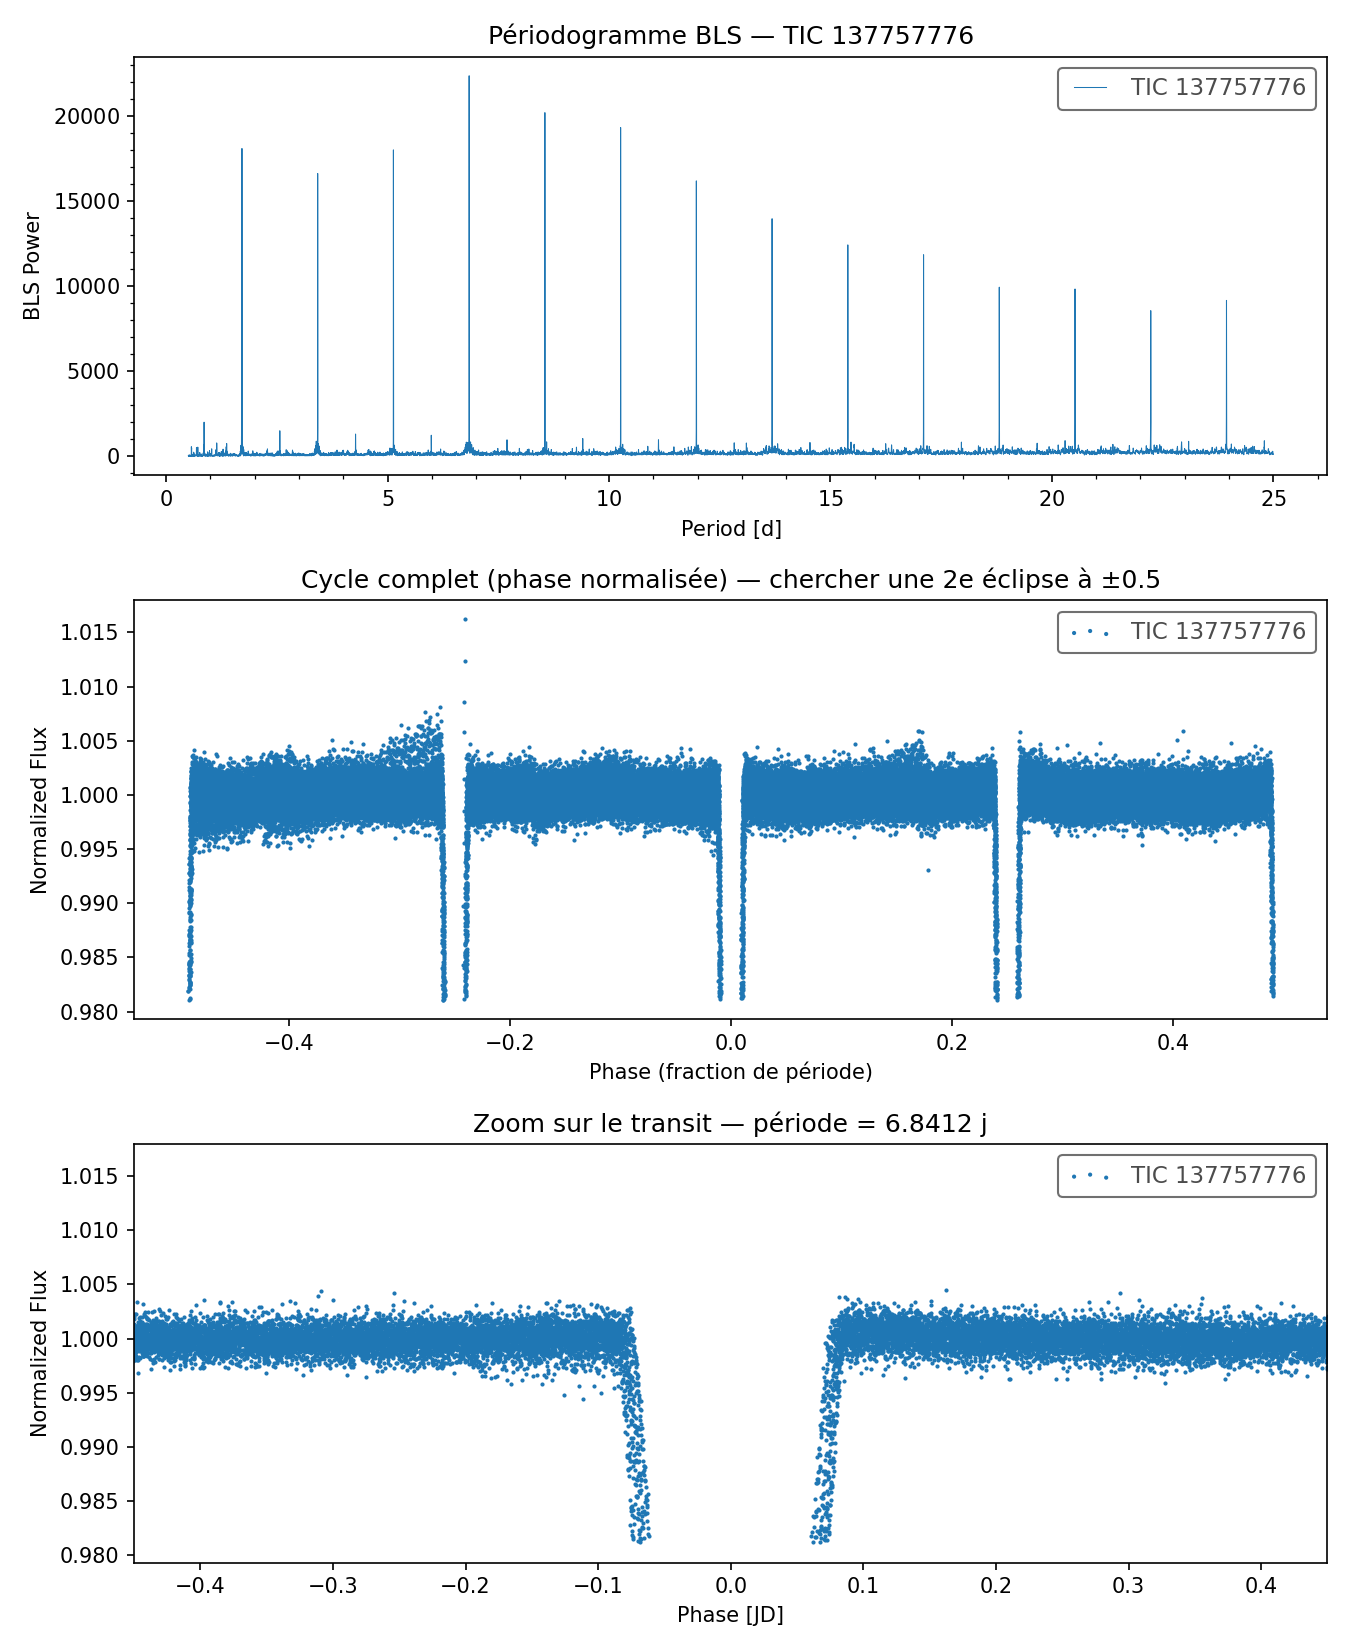
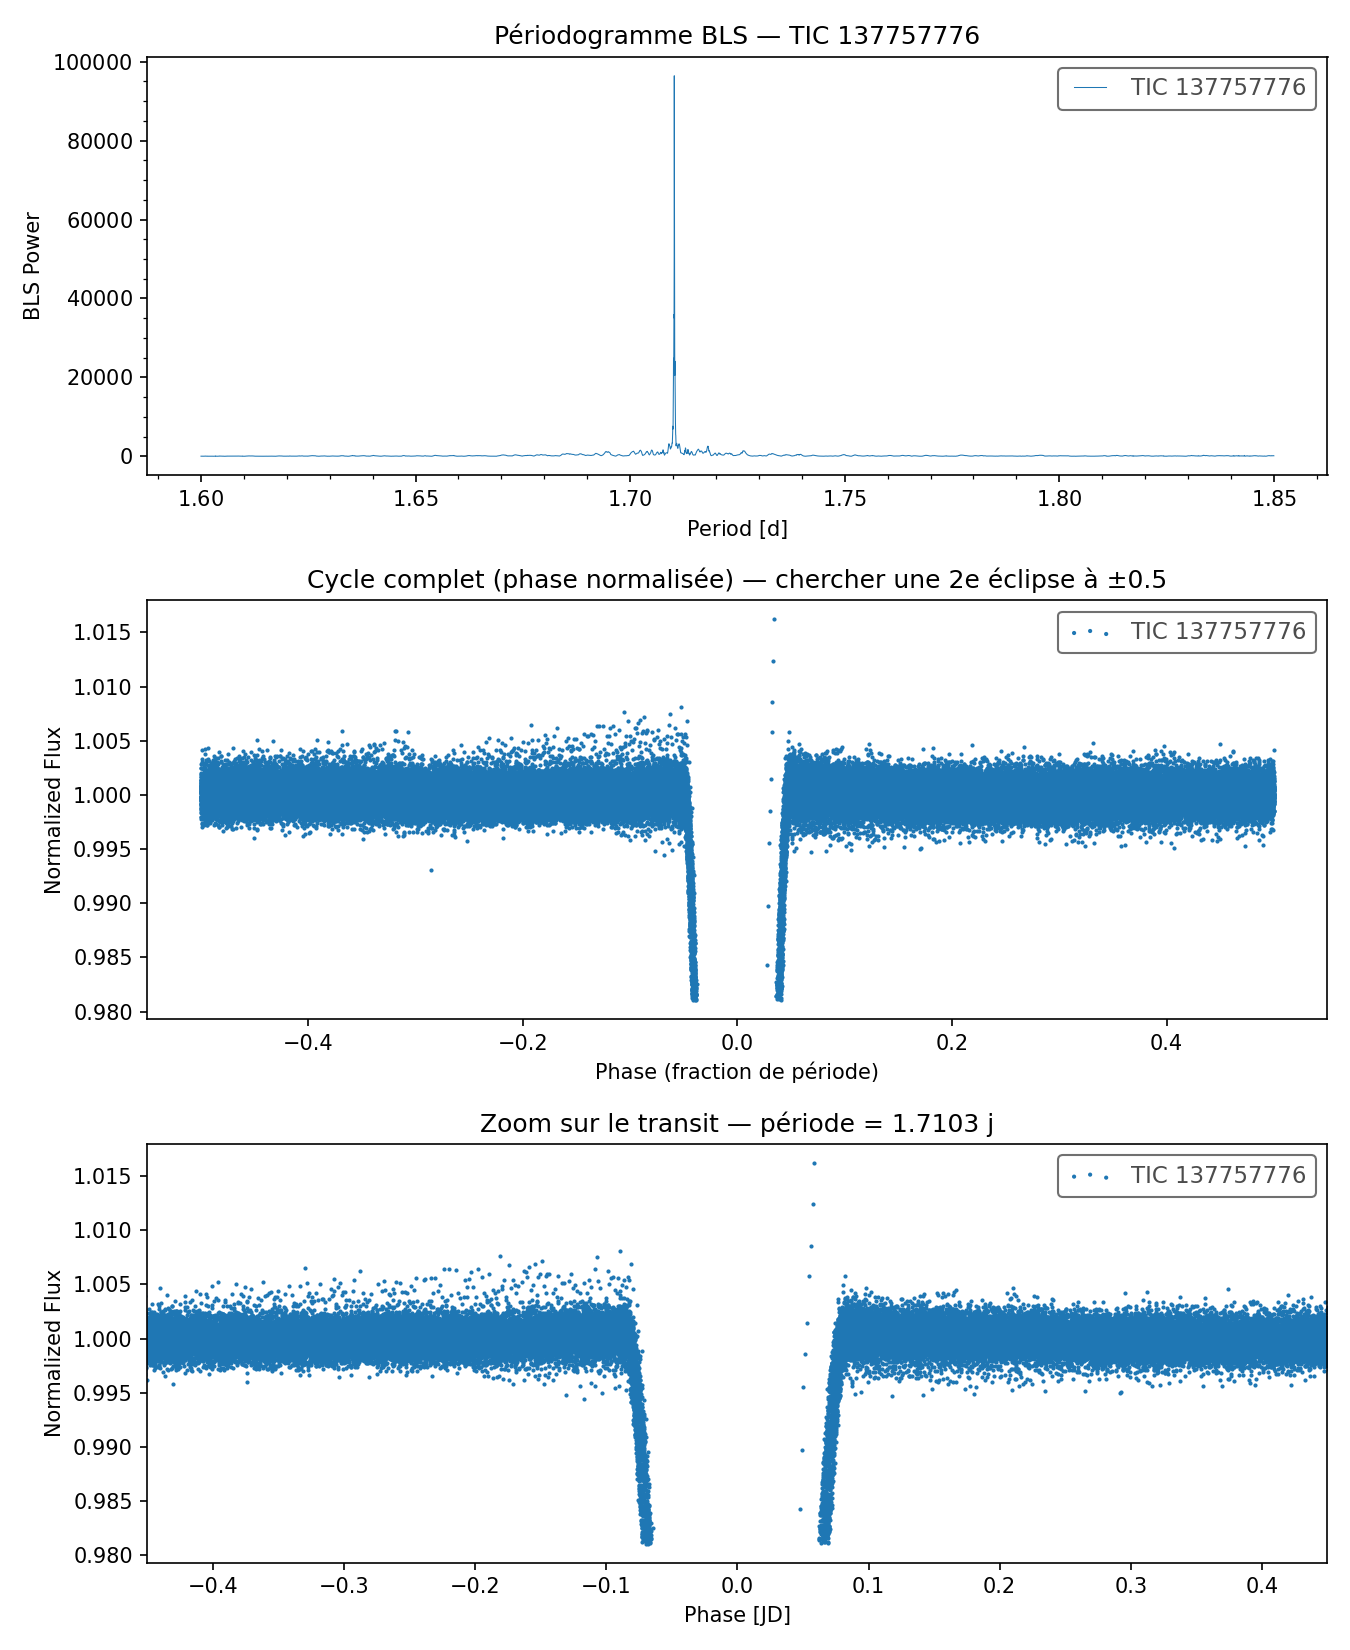
Mise a jour

diff --git a/index.html b/index.html
@@ -2187,6 +2187,188 @@
             <div class="meta-row"><span>période <b> j</b></span><span>snr <b>57.8</b></span></div>
           </div>
         </div>
+
+        <div class="card">
+          <div class="shot">
+            <img src="assets/crop/tic-259589049.png" alt="Courbe de lumière de TIC 259589049">
+            <span class="stamp marginal">Non classée</span>
+          </div>
+          <div class="body">
+            <p class="tic">TIC 259589049</p>
+            <p class="coords">RA 72.433 · DEC -53.002 · Tmag 10.49</p>
+            <p class="verdict-text">Corrigé après examen individuel -- le premier passage sur la grille compressée avait sous-estimé le signal, jugé à tort à peine distinguable. Périodogramme propre avec harmoniques régulières (1:2:3:4:5 sur 5/10/15/20/25j), creux net dans le cycle complet (~1.2%). Rayon implicite 1.18 R_jup -- taille sans ambiguïté, dans la gamme des planètes confirmées. Absente de la table TOI et d'aucune publication trouvée.</p>
+            <div class="meta-row"><span>période <b>4.9839 j</b></span><span>snr <b>—</b></span></div>
+          </div>
+        </div>
+
+        <div class="card">
+          <div class="shot">
+            <img src="assets/crop/tic-183655984.png" alt="Courbe de lumière de TIC 183655984">
+            <span class="stamp reject">Signal non fiable</span>
+          </div>
+          <div class="body">
+            <p class="tic">TIC 183655984</p>
+            <p class="coords">RA 196.025 · DEC -8.075 · Tmag 9.90</p>
+            <p class="verdict-text">Périodogramme chaotique sans pic isolé (bruit de fond montant sur toute la plage), repliement montrant des points épars sous la bande principale plutôt qu'un creux cohérent -- pas un vrai signal périodique malgré le SNR correct de la grille rapide (15.4 sur une période différente, 2.31j).</p>
+            <div class="meta-row"><span>période <b>13.0036 j</b></span><span>snr <b>3.5</b></span></div>
+          </div>
+        </div>
+
+        <div class="card">
+          <div class="shot">
+            <img src="assets/crop/tic-241291471.png" alt="Courbe de lumière de TIC 241291471">
+            <span class="stamp reject">Structure double-creux</span>
+          </div>
+          <div class="body">
+            <p class="tic">TIC 241291471</p>
+            <p class="coords">RA 203.718 · DEC -52.039 · Tmag 9.59</p>
+            <p class="verdict-text">Creux principal net à phase 0, mais second creux distinct vers phase -0.44 -- pas un transit isolé, même motif que TIC 307844756 et TIC 49701947.</p>
+            <div class="meta-row"><span>période <b>9.6909 j</b></span><span>snr <b>19.1</b></span></div>
+          </div>
+        </div>
+
+        <div class="card">
+          <div class="shot">
+            <img src="assets/crop/tic-253451899.png" alt="Courbe de lumière de TIC 253451899">
+            <span class="stamp reject">Binaire (rasante)</span>
+          </div>
+          <div class="body">
+            <p class="tic">TIC 253451899</p>
+            <p class="coords">RA 196.837 · DEC -54.329 · Tmag 9.50</p>
+            <p class="verdict-text">Transit en V large et lisse sans fond plat, ratio durée/période de 13.2% proche du seuil suspect (15%) -- forme typique d'une éclipse rasante plutôt qu'un transit planétaire net.</p>
+            <div class="meta-row"><span>période <b>1.8942 j</b></span><span>snr <b>71.7</b></span></div>
+          </div>
+        </div>
+
+        <div class="card">
+          <div class="shot">
+            <img src="assets/crop/tic-120689878.png" alt="Courbe de lumière de TIC 120689878">
+            <span class="stamp marginal">Non classée</span>
+          </div>
+          <div class="body">
+            <p class="tic">TIC 120689878</p>
+            <p class="coords">RA 286.013 · DEC 40.487 · Tmag 9.29</p>
+            <p class="verdict-text">Transit unique et net dans le cycle complet, aucune structure parasite. Rayon implicite 0.94 R_jup -- taille sans ambiguïté. Absente de la table TOI et d'aucune publication trouvée.</p>
+            <div class="meta-row"><span>période <b>7.4048 j</b></span><span>snr <b>89.9</b></span></div>
+          </div>
+        </div>
+
+        <div class="card">
+          <div class="shot">
+            <img src="assets/crop/tic-258918831.png" alt="Courbe de lumière de TIC 258918831">
+            <span class="stamp marginal">Non classée</span>
+          </div>
+          <div class="body">
+            <p class="tic">TIC 258918831</p>
+            <p class="coords">RA 288.639 · DEC 69.443 · Tmag 11.71</p>
+            <p class="verdict-text">Transit unique et net, périodogramme propre. Rayon implicite 1.24 R_jup -- taille sans ambiguïté. Absente de la table TOI et d'aucune publication trouvée.</p>
+            <div class="meta-row"><span>période <b>5.9861 j</b></span><span>snr <b>60.0</b></span></div>
+          </div>
+        </div>
+
+        <div class="card">
+          <div class="shot">
+            <img src="assets/crop/tic-2941914.png" alt="Courbe de lumière de TIC 2941914">
+            <span class="stamp marginal">Non classée</span>
+          </div>
+          <div class="body">
+            <p class="tic">TIC 2941914</p>
+            <p class="coords">RA 82.025 · DEC 34.456 · Tmag 10.66</p>
+            <p class="verdict-text">Transit unique et net dans le cycle complet, aucune structure parasite. Rayon stellaire absent du catalogue TIC (NaN) -- impossible de calculer la taille implicite par cette méthode, ni confirmable ni excluable sur ce critère. Absente de la table TOI et d'aucune publication trouvée.</p>
+            <div class="meta-row"><span>période <b>4.0039 j</b></span><span>snr <b>73.5</b></span></div>
+          </div>
+        </div>
+
+        <div class="card">
+          <div class="shot">
+            <img src="assets/crop/tic-253453893.png" alt="Courbe de lumière de TIC 253453893">
+            <span class="stamp marginal">Non classée</span>
+          </div>
+          <div class="body">
+            <p class="tic">TIC 253453893</p>
+            <p class="coords">RA 196.928 · DEC -54.158 · Tmag 9.84</p>
+            <p class="verdict-text">Transit unique et net. Rayon implicite 1.68 R_jup -- zone ambiguë entre géante gazeuse et naine M compacte. Absente de la table TOI et d'aucune publication trouvée.</p>
+            <div class="meta-row"><span>période <b>3.4623 j</b></span><span>snr <b>27.1</b></span></div>
+          </div>
+        </div>
+
+        <div class="card">
+          <div class="shot">
+            <img src="assets/crop/tic-23324827.png" alt="Courbe de lumière de TIC 23324827">
+            <span class="stamp marginal">Non classée</span>
+          </div>
+          <div class="body">
+            <p class="tic">TIC 23324827</p>
+            <p class="coords">RA 167.380 · DEC -31.672 · Tmag 11.38</p>
+            <p class="verdict-text">Transit unique visible malgré un signal plus bruité. Rayon implicite 1.85 R_jup -- zone ambiguë entre géante gazeuse et naine M compacte. Absente de la table TOI et d'aucune publication trouvée.</p>
+            <div class="meta-row"><span>période <b>12.3763 j</b></span><span>snr <b>13.3</b></span></div>
+          </div>
+        </div>
+
+        <div class="card">
+          <div class="shot">
+            <img src="assets/crop/tic-441209757.png" alt="Courbe de lumière de TIC 441209757">
+            <span class="stamp reject">Trop gros pour une planète</span>
+          </div>
+          <div class="body">
+            <p class="tic">TIC 441209757</p>
+            <p class="coords">RA 294.481 · DEC -39.560 · Tmag 11.01</p>
+            <p class="verdict-text">Transit unique visible. Rayon implicite 2.42 R_jup -- dépasse le seuil de plausibilité planétaire, probablement une naine rouge ou brune en transit.</p>
+            <div class="meta-row"><span>période <b>1.6590 j</b></span><span>snr <b>11.2</b></span></div>
+          </div>
+        </div>
+
+        <div class="card">
+          <div class="shot">
+            <img src="assets/crop/tic-137757776.png" alt="Courbe de lumière de TIC 137757776">
+            <span class="stamp marginal">Non classée</span>
+          </div>
+          <div class="body">
+            <p class="tic">TIC 137757776</p>
+            <p class="coords">RA 292.718 · DEC 41.922 · Tmag 9.72</p>
+            <p class="verdict-text">Corrigé après alias -- 4 creux régulièrement espacés à 6.8412j révélaient un mauvais multiple de la vraie période. À 1.7103j, transit unique et net, pic de périodogramme écrasant (97000, le plus fort du projet). Rayon implicite 1.93 R_jup -- zone ambiguë entre géante gazeuse et naine M compacte. Absente de la table TOI et d'aucune publication trouvée.</p>
+            <div class="meta-row"><span>période <b>1.7103 j</b></span><span>snr <b>124.7</b></span></div>
+          </div>
+        </div>
+
+        <div class="card">
+          <div class="shot">
+            <img src="assets/crop/tic-170749770.png" alt="Courbe de lumière de TIC 170749770">
+            <span class="stamp marginal">Non classée</span>
+          </div>
+          <div class="body">
+            <p class="tic">TIC 170749770</p>
+            <p class="coords">RA 68.245 · DEC -33.497 · Tmag 10.71</p>
+            <p class="verdict-text">Corrigé après alias -- 4 creux régulièrement espacés à 21.2217j révélaient un mauvais multiple de la vraie période. À 5.3056j, transit unique et net. Rayon implicite 1.60 R_jup -- zone ambiguë entre géante gazeuse et naine M compacte. Absente de la table TOI et d'aucune publication trouvée.</p>
+            <div class="meta-row"><span>période <b>5.3056 j</b></span><span>snr <b>22.5</b></span></div>
+          </div>
+        </div>
+
+        <div class="card">
+          <div class="shot">
+            <img src="assets/crop/tic-256368884.png" alt="Courbe de lumière de TIC 256368884">
+            <span class="stamp reject">Trop gros pour une planète</span>
+          </div>
+          <div class="body">
+            <p class="tic">TIC 256368884</p>
+            <p class="coords">RA 298.363 · DEC 60.868 · Tmag 10.42</p>
+            <p class="verdict-text">Corrigé après alias -- 3 creux régulièrement espacés à 12.5969j révélaient un mauvais multiple de la vraie période. Mais à la bonne période (4.1992j), rayon implicite 2.47 R_jup -- dépasse le seuil de plausibilité planétaire, probablement une naine rouge ou brune en transit.</p>
+            <div class="meta-row"><span>période <b>4.1992 j</b></span><span>snr <b>33.2</b></span></div>
+          </div>
+        </div>
+
+        <div class="card">
+          <div class="shot">
+            <img src="assets/crop/tic-32000625.png" alt="Courbe de lumière de TIC 32000625">
+            <span class="stamp reject">Binaire (éclipses inégales)</span>
+          </div>
+          <div class="body">
+            <p class="tic">TIC 32000625</p>
+            <p class="coords">RA 55.988 · DEC -71.479 · Tmag 11.05</p>
+            <p class="verdict-text">Profondeur extrême (~8.5%), deux éclipses de profondeurs différentes par cycle non alignées à phase 0.5 -- primaire et secondaire d'une binaire excentrique. Le périodogramme en peigne dense (dizaines de pics comparables sur toute la plage testée) s'explique par la période très courte et la profondeur du signal, pas par une ambiguïté réelle sur la période.</p>
+            <div class="meta-row"><span>période <b>1.7545 j</b></span><span>snr <b>102.7</b></span></div>
+          </div>
+        </div>
     <!-- CARDS:END -->
       </div>
     </div>
